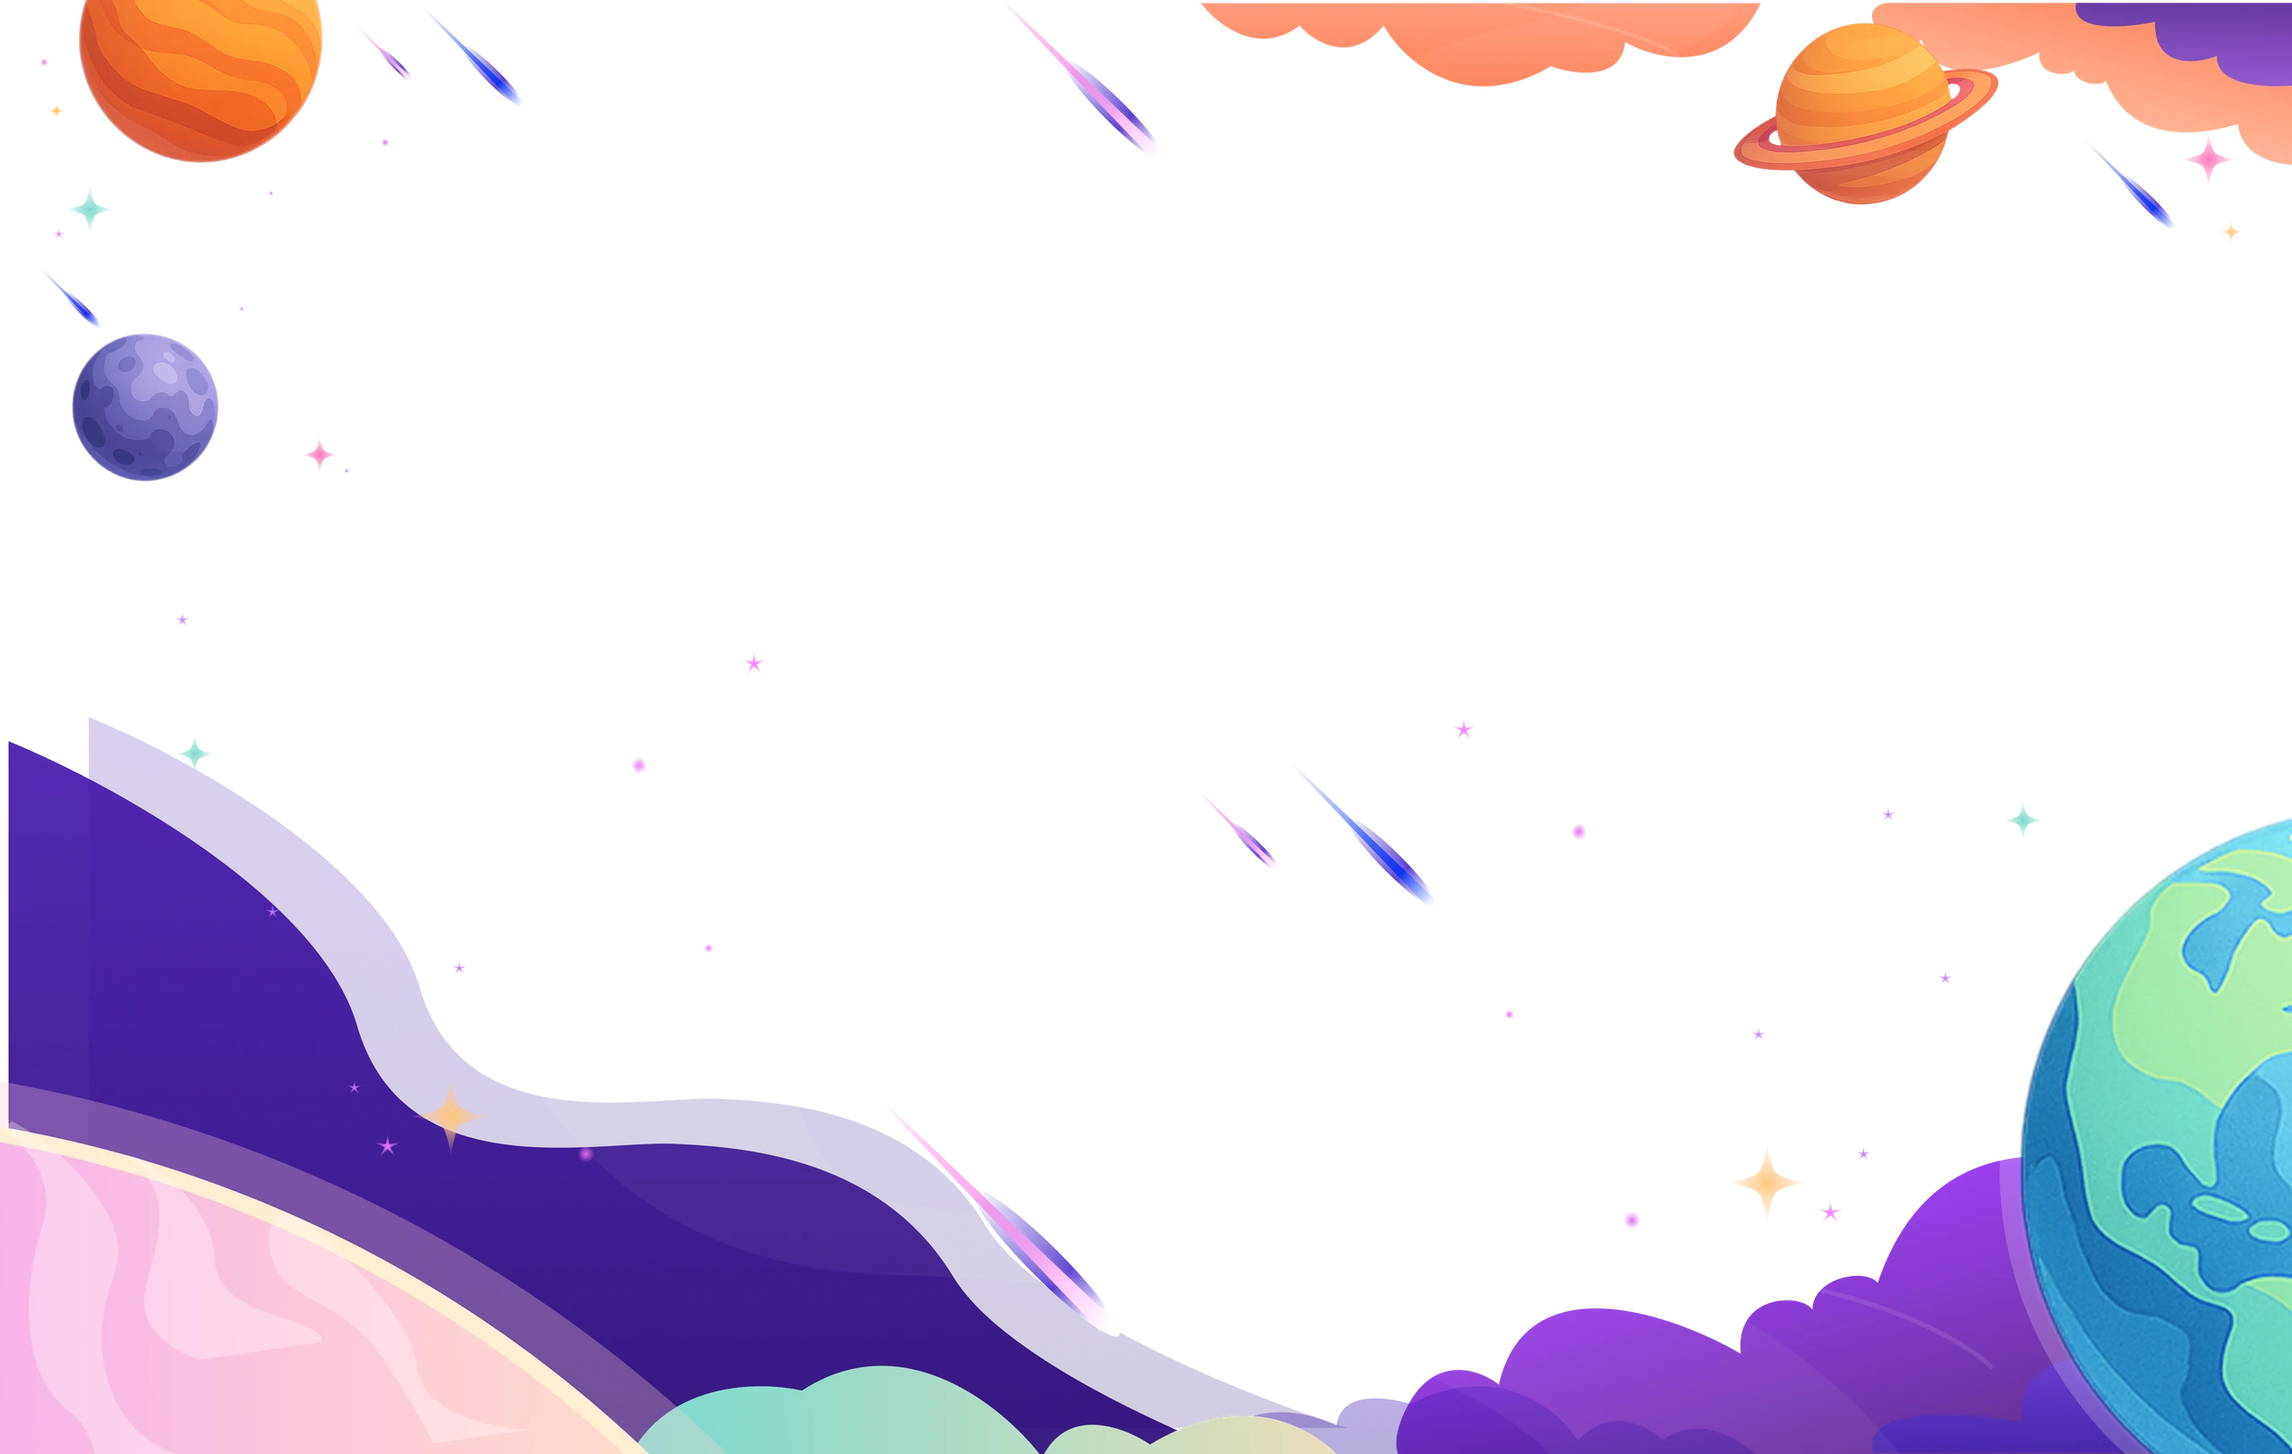
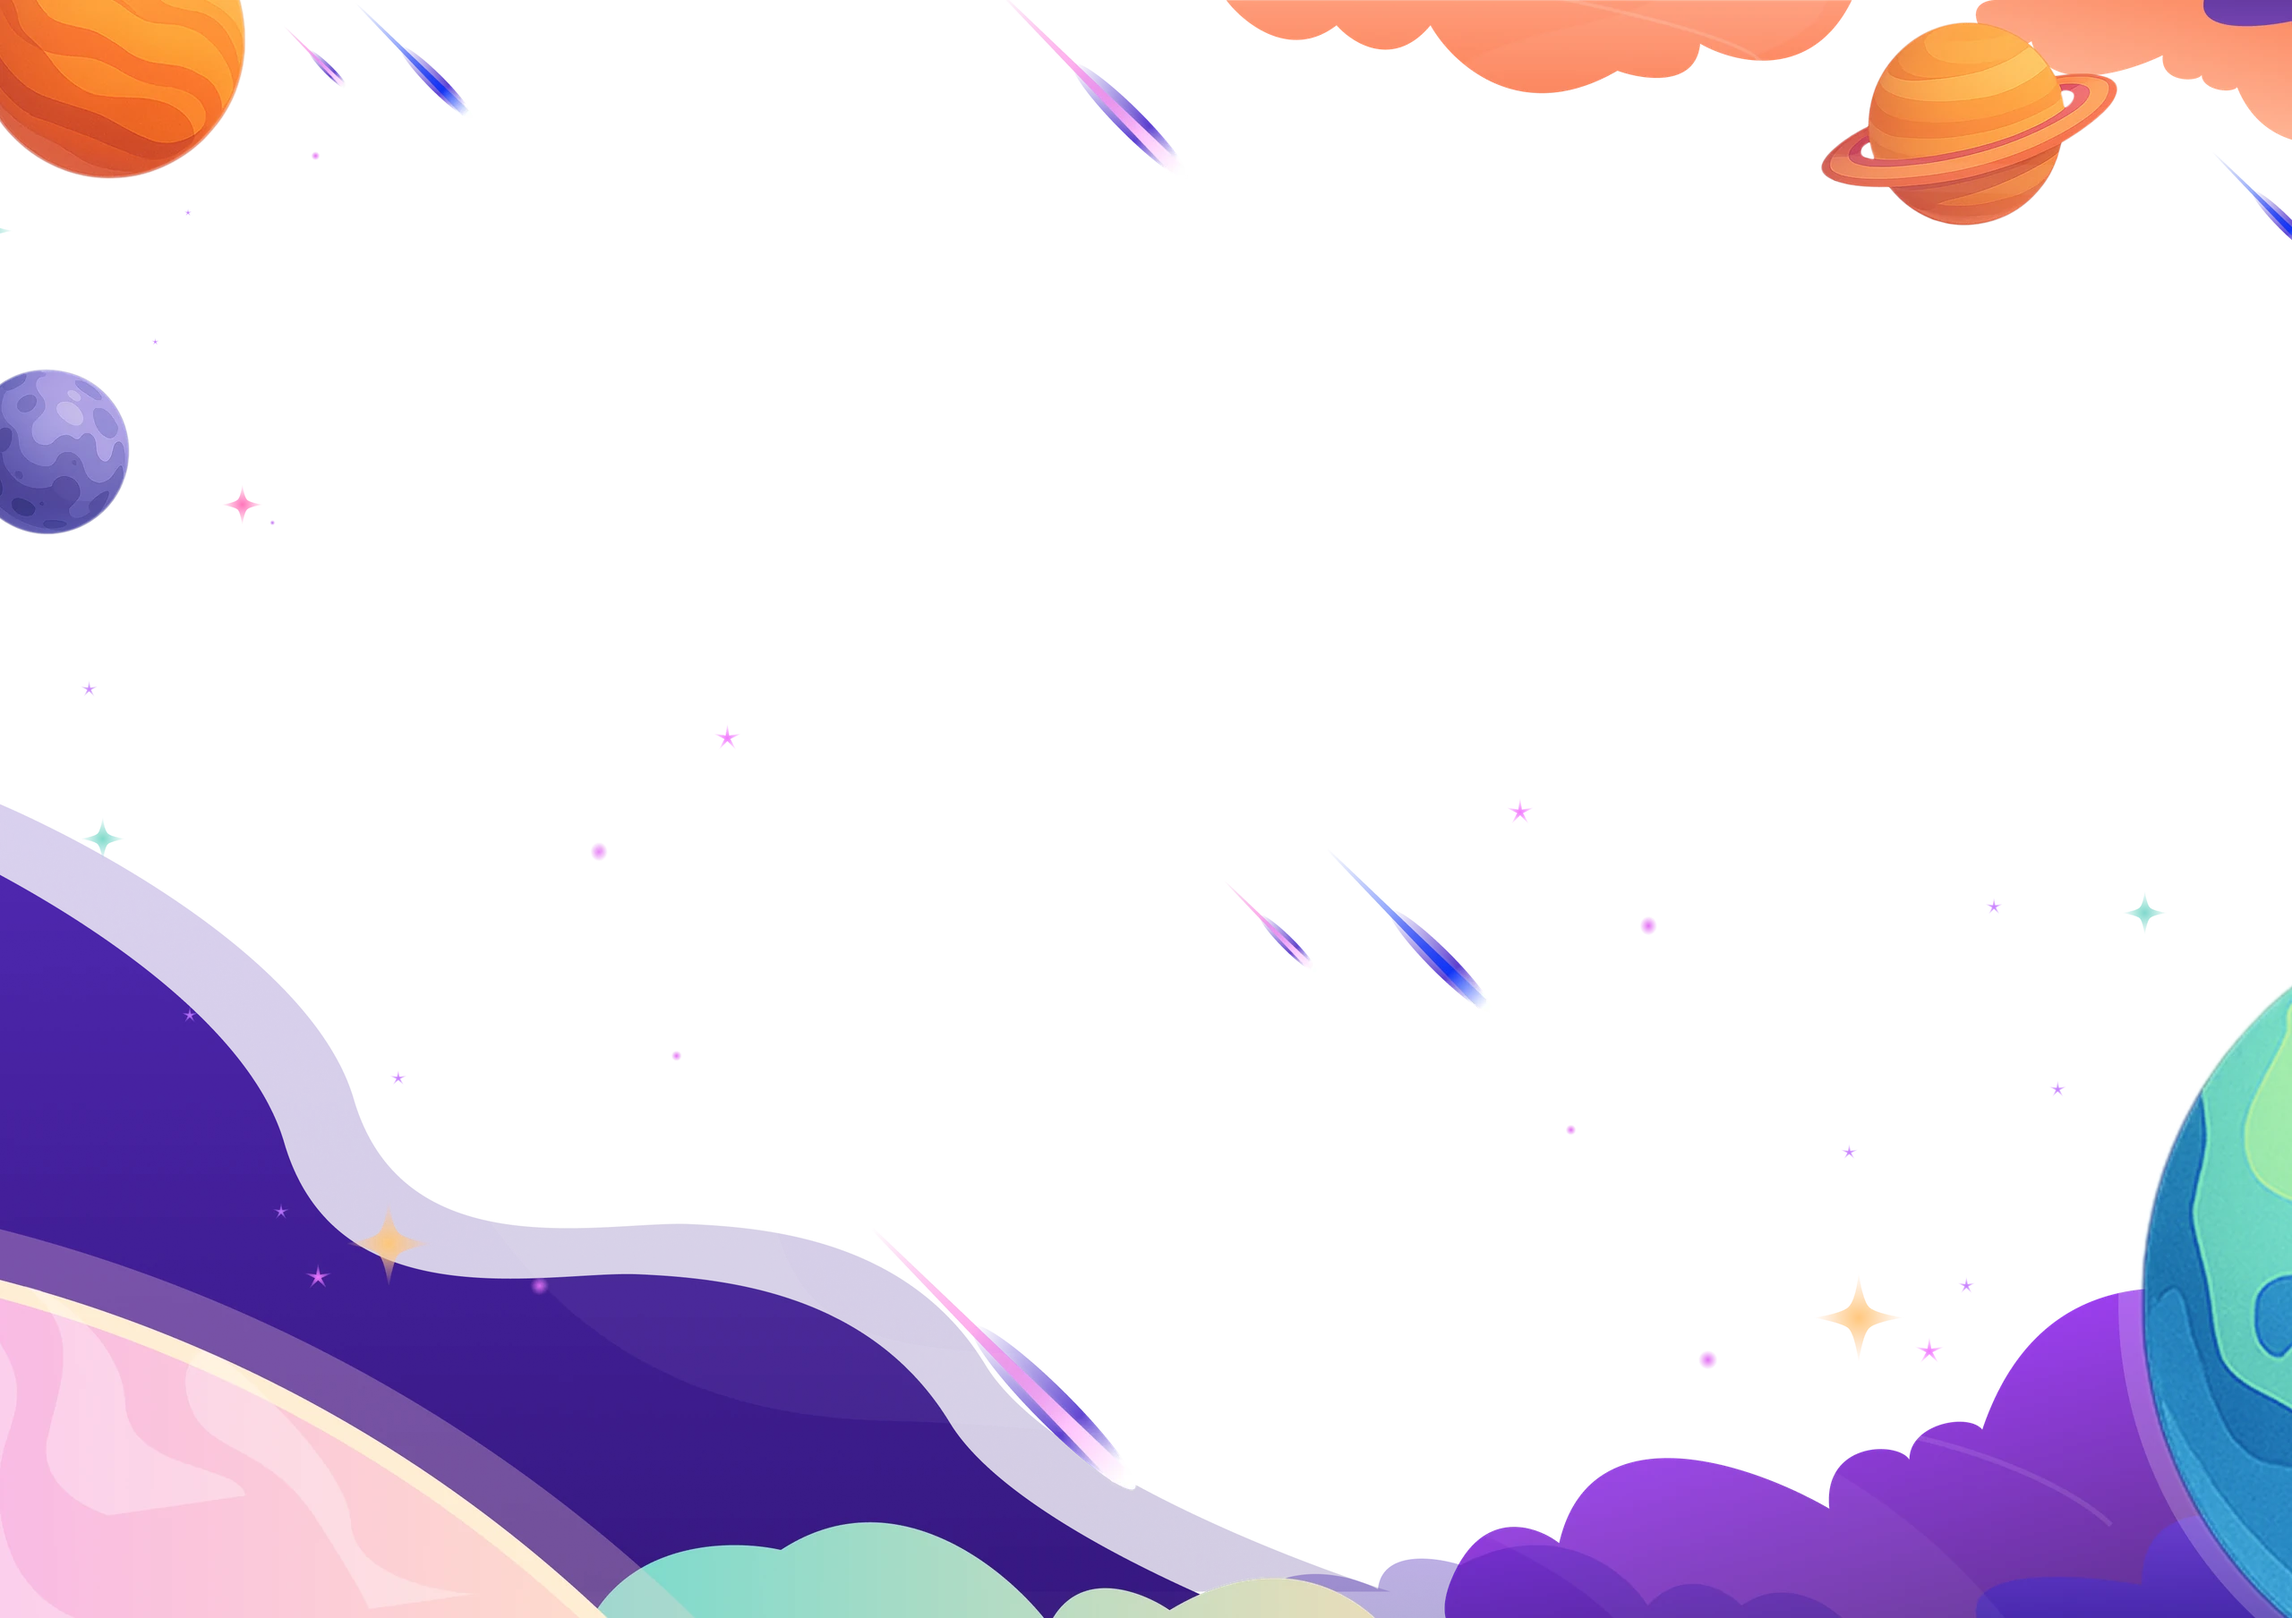
fix(web): 공용 우주 배경을 시안 프레임에 맞춰 위쪽 기준으로 정렬 (#357)

diff --git a/apps/web/src/shared/ui/layout/space-background.tsx b/apps/web/src/shared/ui/layout/space-background.tsx
@@ -9,15 +9,17 @@ import decorationFallback from './assets/space-decoration.webp?w=1920&format=web
 import starfieldAvif from './assets/starfield.webp?quality=75&format=avif';
 import starfieldWebp from './assets/starfield.webp';
 
+// 시안 프레임(1440×1017)의 Figma 그라데이션을 프레임 상자 기준 CSS로 옮긴 값이다.
 const SPACE_GRADIENT =
-  'linear-gradient(292.58deg, var(--color-space-start) 3.59%, var(--color-space-end) 95.08%)';
+  'linear-gradient(303.01deg, var(--color-space-start) -0.83%, var(--color-space-end) 97.56%)';
 
-// cover라 세로로 긴 화면에서는 높이에 맞춰 커진다. 158vh = 100vh × 원본 비율(4821/3060).
+// 장식은 시안 프레임(1440×1017) 범위로 잘라 두었다. cover라 세로로 긴 화면에서는 높이에 맞춰
+// 커진다. 142vh = 100vh × 프레임 비율.
 const SPACE_DECORATION = {
   avifSrcSet: decorationAvif,
   webpSrcSet: decorationWebp,
   src: decorationFallback,
-  sizes: 'max(100vw, 158vh)',
+  sizes: 'max(100vw, 142vh)',
 };
 
 export type SpaceBackgroundVariant = 'default' | 'starfield';

diff --git a/apps/web/src/shared/ui/gradient-canvas/gradient-canvas.tsx b/apps/web/src/shared/ui/gradient-canvas/gradient-canvas.tsx
@@ -10,7 +10,7 @@ export interface GradientCanvasDecoration {
   sizes: string;
 }
 
-/** 장식을 상자에 맞추는 방식. `cover`: 비율을 지키며 상자를 꽉 채우고 넘친 쪽을 자른다 */
+/** 장식을 상자에 맞추는 방식. `cover`: 비율을 지키며 상자를 꽉 채우고, 위를 맞춘 채 넘친 쪽을 자른다 */
 export type GradientCanvasFit = 'cover';
 
 export interface GradientCanvasProps extends ComponentProps<'div'> {
@@ -24,7 +24,7 @@ export interface GradientCanvasProps extends ComponentProps<'div'> {
 }
 
 const FIT_CLASS: Record<GradientCanvasFit, string> = {
-  cover: 'inset-0 size-full object-cover',
+  cover: 'inset-0 size-full object-cover object-top',
 };
 
 /**

diff --git a/apps/web/src/shared/ui/gradient-canvas/gradient-canvas.stories.tsx b/apps/web/src/shared/ui/gradient-canvas/gradient-canvas.stories.tsx
@@ -38,7 +38,7 @@ const meta = {
       avifSrcSet: decorationAvif,
       webpSrcSet: decorationWebp,
       src: decorationFallback,
-      sizes: 'max(100vw, 158vh)',
+      sizes: 'max(100vw, 142vh)',
     },
     className: 'flex min-h-svh items-center justify-center',
     children: <p className="text-title1 text-text-1-w">공용 우주 배경</p>,

diff --git a/work/in-progress/FIX-073-이미지-배경-새-시안-반영/plan.md b/work/in-progress/FIX-073-이미지-배경-새-시안-반영/plan.md
@@ -65,7 +65,7 @@ mode: 'design-fix'
 
 - [ ] `[app]` `tokens.css`에 `--color-space-start` · `--color-space-end` · 기존 `.bg-space-gradient` · 리그 `BACKGROUND_GRADIENT`를 토큰으로 교체(색 같음 → 모양 동일) · `docs/design-system/README.md`에 「Figma 변수 없음 · 디자이너 확인 필요」 · Foundations 색 문서
 - [ ] `[shared]` 공용 캔버스 신설 + 테스트(장식 `alt=""` · 그라데이션 style · anchor별 배치) + 스토리(대표 상태)
-- [ ] `[shared]` `SpaceBackground` 기본 변형을 캔버스로 교체. 장식은 2560px webp 하나만 `shared/ui/layout/assets`에 두고 빌드에서 1920 · avif를 만든다(§4-2). 장식은 `cover`로 채운다 — spec의 「폭 맞춤 · 세로 가운데」는 세로로 긴 화면(900×1200)에서 장식이 띠로 잘려 2026-10-31 사용자 판정으로 바꿨다
+- [ ] `[shared]` `SpaceBackground` 기본 변형을 캔버스로 교체. 장식은 2560px webp 하나만 `shared/ui/layout/assets`에 두고 빌드에서 1920 · avif를 만든다(§4-2). 장식은 `cover`로 채운다 — spec의 「폭 맞춤 · 세로 가운데」는 세로로 긴 화면(900×1200)에서 장식이 띠로 잘려 2026-10-31 사용자 판정으로 바꿨다. 세로 기준은 위쪽이다 — 시안(로그인 `ACC-01-WEB` · 온보딩 웹)이 배경을 위에 붙이고 아래만 자른다. 받은 PNG는 프레임(`이력서 & 포트폴리오` `100:9573`, 1440×1017)이 잘리기 전 전체 그림이라 프레임 범위로 잘라 에셋을 만들었다. 프레임과 PNG는 지구 크기 · 왼쪽 물결 띠가 다르고, 사용자 판정(2026-11-01)으로 PNG(작은 지구 · 물결 띠 있음)를 쓴다. 그라데이션은 프레임 값을 상자 기준으로 옮긴 `303.01deg -0.83% → 97.56%`. 그래서 AC-2 픽셀 비교는 장식 버전 차이로 통과할 수 없고, 사용자 채택으로 기록한다
 - [ ] 사용처 4곳 렌더 확인 · 로그인 · 온보딩 테스트 통과
 - [ ] AC-2 로그인 1440×900 Figma 비교 · AC-3 로그인 데스크톱 LCP 3회
 
